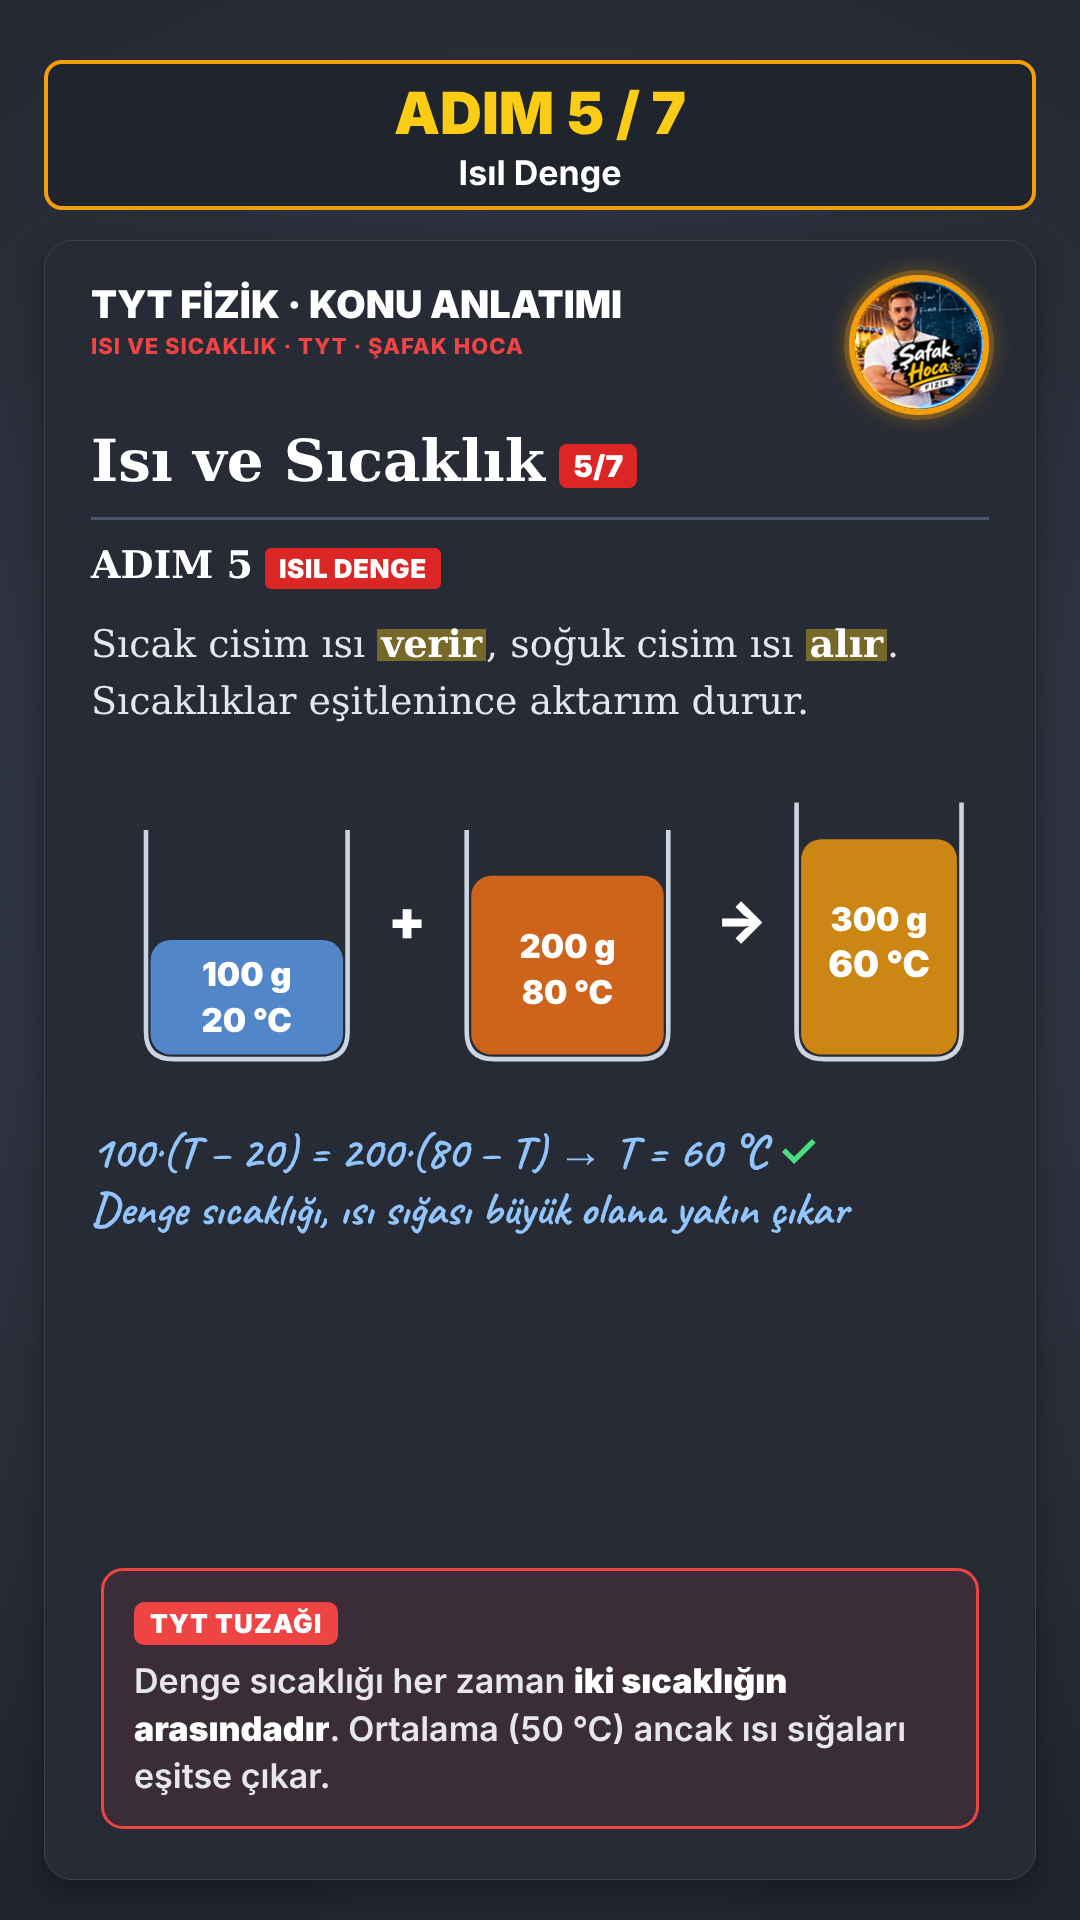
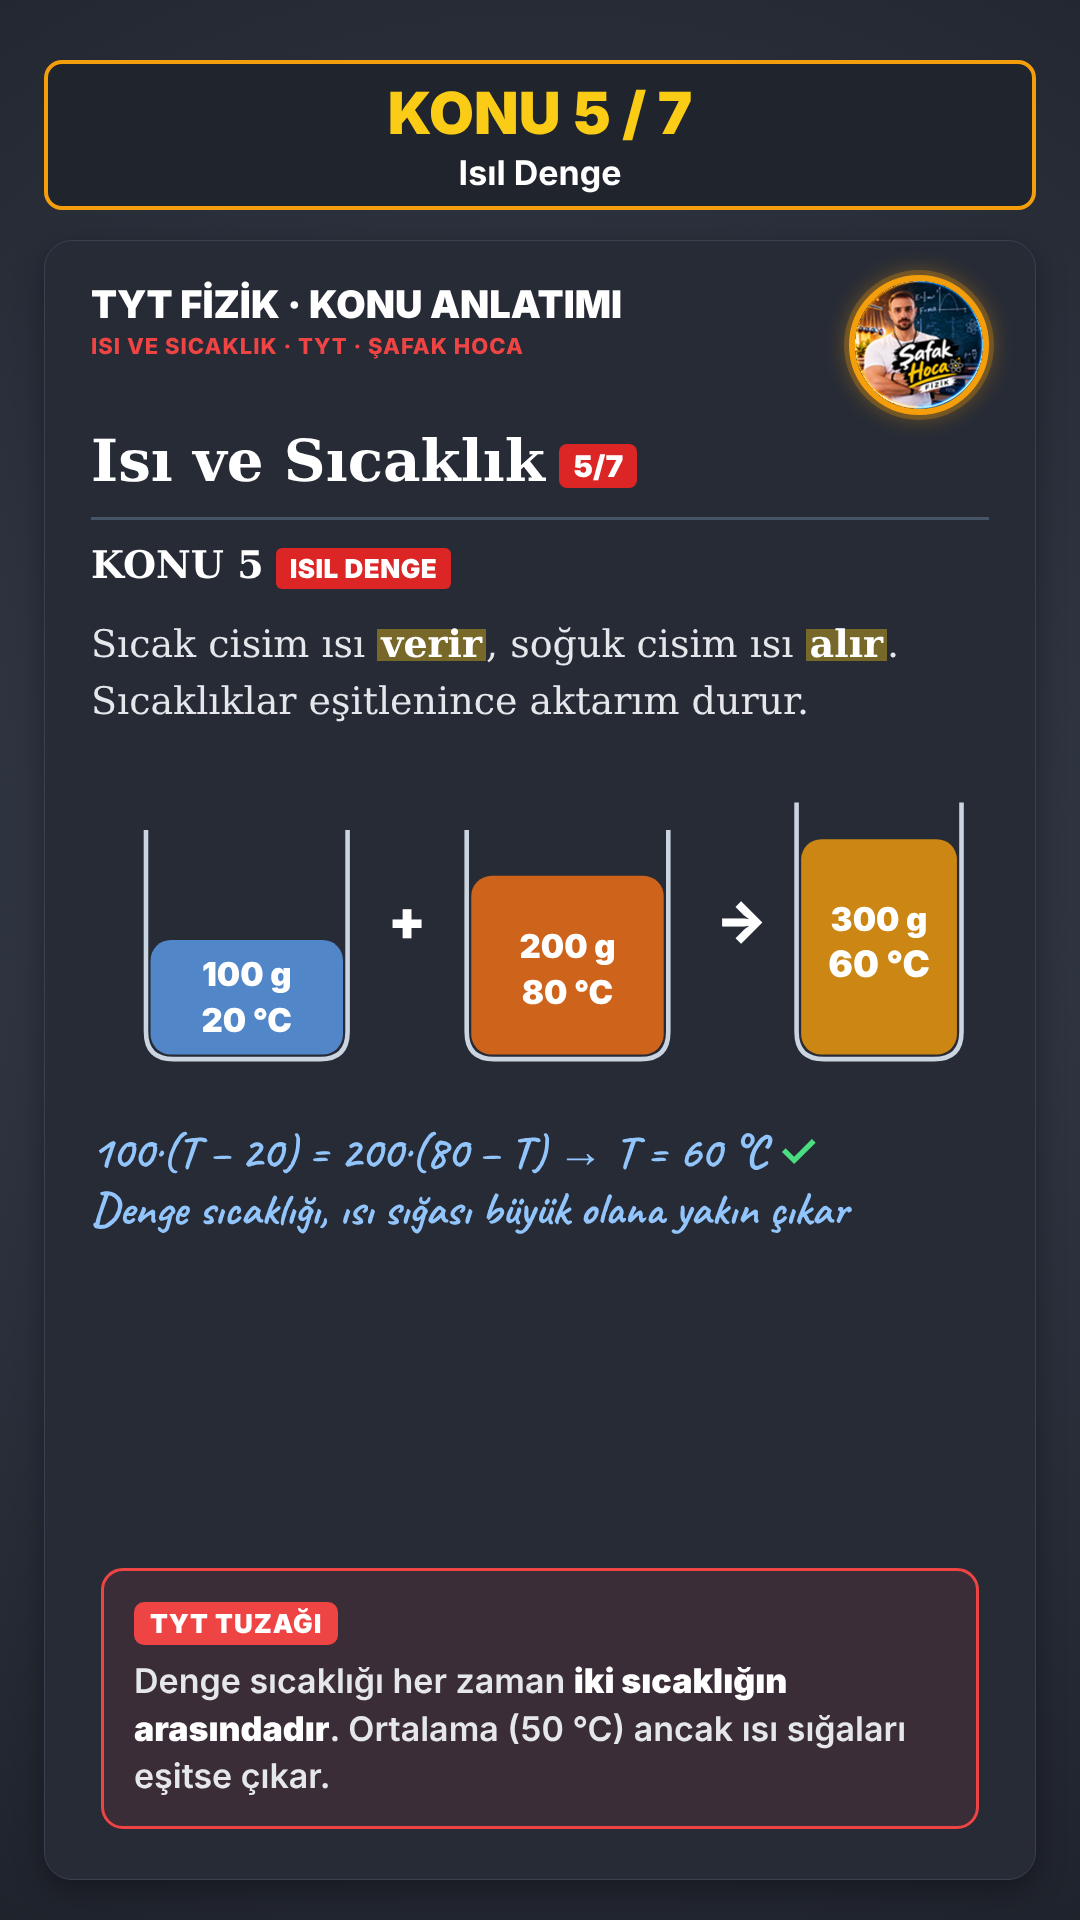
TYT Isı ve Sıcaklık: konu konu anlatım — 7 konu (genleşme eklendi) + TYT sorusu
Claude-Session: https://claude.ai/code/session_01Xc7NeVxuRXWQCx2wXCgMJt

Changed region(s): [[0.3667, 0.0312, 0.6417, 0.0938], [0.0917, 0.2812, 0.4278, 0.3125]]

diff --git a/tyt/konular/isi_sicaklik.html b/tyt/konular/isi_sicaklik.html
@@ -159,21 +159,21 @@
     <div class="logo-foto"></div>
     <div class="ka2">KONU ANLATIMI</div>
     <div class="konu2">Isı ve Sıcaklık</div>
-    <div class="ders2">Isı ≠ sıcaklık · Öz ısı · Hal değişimi · Isıl denge · Isı aktarımı</div>
+    <div class="ders2">Isı ve sıcaklık · Öz ısı · Hal değişimi · Isıl denge · Isı aktarımı · Genleşme</div>
     <div class="kod2">TYT · 2026-2027</div>
   </div>
   <div class="kp2-imza">Şafak Hoca · Fizik</div>
 </section>
 
-<!-- ================= 3 · ADIM 1: ISI ≠ SICAKLIK (0:13–0:48) ================= -->
+<!-- ================= 3 · KONU 1: ISI, SICAKLIK, İÇ ENERJİ (0:13–0:48) ================= -->
 <section class="sahne" id="a1">
-  <div class="ust-kutu"><div class="u1">ADIM 1 / 7</div><div class="u2">Isı ≠ Sıcaklık</div></div>
+  <div class="ust-kutu"><div class="u1">KONU 1 / 7</div><div class="u2">Isı, Sıcaklık ve İç Enerji</div></div>
   <div class="pg">
     <div class="pg-bas"><div class="pb1">TYT FİZİK · KONU ANLATIMI</div><div class="pb2">ISI VE SICAKLIK · TYT · ŞAFAK HOCA</div><div class="logo-foto"></div></div>
     <div class="pg-baslik">Isı ve Sıcaklık<span class="rozet">1/7</span></div>
     <div class="pg-cizgi"></div>
-    <div class="pg-adim">ADIM 1<span class="etk">ISI ≠ SICAKLIK</span></div>
-    <p class="tanim"><span class="f">Sıcaklık</span>, taneciklerin <span class="v">ortalama</span> hareket enerjisinin göstergesidir. <span class="f">Isı</span>, sıcaklık farkı yüzünden <span class="v">aktarılan</span> enerjidir.</p>
+    <div class="pg-adim">KONU 1<span class="etk">ISI, SICAKLIK VE İÇ ENERJİ</span></div>
+    <p class="tanim"><span class="f">Sıcaklık</span>, taneciklerin <span class="v">ortalama</span> hareket enerjisinin göstergesidir. <span class="f">İç enerji</span>, taneciklerin <span class="v">toplam</span> enerjisidir. <span class="f">Isı</span>, sıcaklık farkı yüzünden <span class="v">aktarılan</span> enerjidir.</p>
     <svg viewBox="0 0 980 300" width="100%" height="300">
       <g font-weight="800" text-anchor="middle">
         <rect x="20" y="20" width="440" height="230" rx="22" fill="#1f2430" stroke="#4b5563" stroke-width="3"/>
@@ -190,18 +190,18 @@
     </svg>
     <p class="not" style="margin-top:20px">Petek 70 °C, oda 22 °C → ısı petekten odaya akar <span class="ok">✓</span></p>
     <p class="not">Isı hep sıcaktan soğuğa akar; sıcaklıklar eşitlenince durur</p>
-    <div class="tuzak"><b class="b">TYT TUZAĞI</b><br>Bir kova suyun ısısı, bir bardak suyun ısısından fazladır demek <strong>yanlış</strong>. Cisimler ısı içermez, ısı yalnızca <strong>aktarılır</strong>.</div>
+    <div class="tuzak"><b class="b">TYT TUZAĞI</b><br>Aynı sıcaklıktaki bir kova su, bir bardak sudan daha fazla <strong>iç enerjiye</strong> sahiptir ama "daha fazla ısısı var" demek <strong>yanlış</strong>: ısı yalnızca aktarılır.</div>
   </div>
 </section>
 
-<!-- ================= 4 · ADIM 2: TERMOMETRELER (0:48–1:23) ================= -->
+<!-- ================= 4 · KONU 2: TERMOMETRELER (0:48–1:22) ================= -->
 <section class="sahne" id="a2">
-  <div class="ust-kutu"><div class="u1">ADIM 2 / 7</div><div class="u2">Sıcaklık Ölçekleri</div></div>
+  <div class="ust-kutu"><div class="u1">KONU 2 / 7</div><div class="u2">Termometreler ve Ölçekler</div></div>
   <div class="pg">
     <div class="pg-bas"><div class="pb1">TYT FİZİK · KONU ANLATIMI</div><div class="pb2">ISI VE SICAKLIK · TYT · ŞAFAK HOCA</div><div class="logo-foto"></div></div>
     <div class="pg-baslik">Isı ve Sıcaklık<span class="rozet">2/7</span></div>
     <div class="pg-cizgi"></div>
-    <div class="pg-adim">ADIM 2<span class="etk">SICAKLIK ÖLÇEKLERİ</span></div>
+    <div class="pg-adim">KONU 2<span class="etk">TERMOMETRELER VE ÖLÇEKLER</span></div>
     <svg viewBox="0 0 980 540" width="100%" height="540">
       <g font-weight="900" text-anchor="middle">
         <defs><g id="trm">
@@ -228,14 +228,14 @@
   </div>
 </section>
 
-<!-- ================= 5 · ADIM 3: ÖZ ISI (1:23–2:08) ================= -->
+<!-- ================= 5 · KONU 3: ÖZ ISI (1:22–1:57) ================= -->
 <section class="sahne" id="a3">
-  <div class="ust-kutu"><div class="u1">ADIM 3 / 7</div><div class="u2">Öz Isı ve Isı Sığası</div></div>
+  <div class="ust-kutu"><div class="u1">KONU 3 / 7</div><div class="u2">Öz Isı ve Isı Sığası</div></div>
   <div class="pg">
     <div class="pg-bas"><div class="pb1">TYT FİZİK · KONU ANLATIMI</div><div class="pb2">ISI VE SICAKLIK · TYT · ŞAFAK HOCA</div><div class="logo-foto"></div></div>
     <div class="pg-baslik">Isı ve Sıcaklık<span class="rozet">3/7</span></div>
     <div class="pg-cizgi"></div>
-    <div class="pg-adim">ADIM 3<span class="etk">ÖZ ISI VE ISI SIĞASI</span></div>
+    <div class="pg-adim">KONU 3<span class="etk">ÖZ ISI VE ISI SIĞASI</span></div>
     <div class="formul">Q = m · c · ΔT<small>c: öz ısı · m·c: ısı sığası</small></div>
     <p class="tanim"><span class="f">Öz ısı</span>, 1 gram maddenin sıcaklığını 1 °C artırmak için gereken ısıdır. <span class="v">Ayırt edicidir</span>, kütleye bağlı değildir.</p>
     <svg viewBox="0 0 980 300" width="100%" height="300">
@@ -255,14 +255,14 @@
   </div>
 </section>
 
-<!-- ================= 6 · ADIM 4: HAL DEĞİŞİMİ (2:08–2:48) ================= -->
+<!-- ================= 6 · KONU 4: HAL DEĞİŞİMİ (1:57–2:31) ================= -->
 <section class="sahne" id="a4">
-  <div class="ust-kutu"><div class="u1">ADIM 4 / 7</div><div class="u2">Hal Değişimi</div></div>
+  <div class="ust-kutu"><div class="u1">KONU 4 / 7</div><div class="u2">Hal Değişimi</div></div>
   <div class="pg">
     <div class="pg-bas"><div class="pb1">TYT FİZİK · KONU ANLATIMI</div><div class="pb2">ISI VE SICAKLIK · TYT · ŞAFAK HOCA</div><div class="logo-foto"></div></div>
     <div class="pg-baslik">Isı ve Sıcaklık<span class="rozet">4/7</span></div>
     <div class="pg-cizgi"></div>
-    <div class="pg-adim">ADIM 4<span class="etk">HAL DEĞİŞİMİ</span></div>
+    <div class="pg-adim">KONU 4<span class="etk">HAL DEĞİŞİMİ</span></div>
     <svg viewBox="0 0 980 560" width="100%" height="560">
       <defs><marker id="okax" viewBox="0 0 10 10" refX="8" refY="5" markerWidth="6" markerHeight="6" orient="auto"><path d="M0 0L10 5L0 10z" fill="#cbd5e1"/></marker></defs>
       <line x1="90" y1="500" x2="950" y2="500" class="ax" marker-end="url(#okax)"/>
@@ -288,14 +288,14 @@
   </div>
 </section>
 
-<!-- ================= 7 · ADIM 5: ISIL DENGE (2:48–3:28) ================= -->
+<!-- ================= 7 · KONU 5: ISIL DENGE (2:31–3:06) ================= -->
 <section class="sahne" id="a5">
-  <div class="ust-kutu"><div class="u1">ADIM 5 / 7</div><div class="u2">Isıl Denge</div></div>
+  <div class="ust-kutu"><div class="u1">KONU 5 / 7</div><div class="u2">Isıl Denge</div></div>
   <div class="pg">
     <div class="pg-bas"><div class="pb1">TYT FİZİK · KONU ANLATIMI</div><div class="pb2">ISI VE SICAKLIK · TYT · ŞAFAK HOCA</div><div class="logo-foto"></div></div>
     <div class="pg-baslik">Isı ve Sıcaklık<span class="rozet">5/7</span></div>
     <div class="pg-cizgi"></div>
-    <div class="pg-adim">ADIM 5<span class="etk">ISIL DENGE</span></div>
+    <div class="pg-adim">KONU 5<span class="etk">ISIL DENGE</span></div>
     <p class="tanim">Sıcak cisim ısı <span class="f">verir</span>, soğuk cisim ısı <span class="f">alır</span>. Sıcaklıklar eşitlenince aktarım durur.</p>
     <svg viewBox="0 0 980 360" width="100%" height="360">
       <g font-weight="900" text-anchor="middle">
@@ -318,14 +318,14 @@
   </div>
 </section>
 
-<!-- ================= 8 · ADIM 6: ISI AKTARIM YOLLARI (3:28–4:08) ================= -->
+<!-- ================= 8 · KONU 6: ISI AKTARIM YOLLARI (3:06–3:40) ================= -->
 <section class="sahne" id="a6">
-  <div class="ust-kutu"><div class="u1">ADIM 6 / 7</div><div class="u2">Isı Aktarım Yolları</div></div>
+  <div class="ust-kutu"><div class="u1">KONU 6 / 7</div><div class="u2">Isı Aktarım Yolları</div></div>
   <div class="pg">
     <div class="pg-bas"><div class="pb1">TYT FİZİK · KONU ANLATIMI</div><div class="pb2">ISI VE SICAKLIK · TYT · ŞAFAK HOCA</div><div class="logo-foto"></div></div>
     <div class="pg-baslik">Isı ve Sıcaklık<span class="rozet">6/7</span></div>
     <div class="pg-cizgi"></div>
-    <div class="pg-adim">ADIM 6<span class="etk">ISI AKTARIM YOLLARI</span></div>
+    <div class="pg-adim">KONU 6<span class="etk">ISI AKTARIM YOLLARI</span></div>
     <svg viewBox="0 0 980 560" width="100%" height="440">
       <defs>
         <marker id="o1" viewBox="0 0 10 10" refX="7" refY="5" markerWidth="4" markerHeight="4" orient="auto"><path d="M0 0L10 5L0 10z" fill="#fb923c"/></marker>
@@ -364,14 +364,39 @@
   </div>
 </section>
 
-<!-- ================= 9 · ADIM 7: TYT SORUSU (4:08–4:50) ================= -->
+<!-- ================= 9 · KONU 7: GENLEŞME (3:40–4:15) ================= -->
 <section class="sahne" id="a7">
-  <div class="ust-kutu"><div class="u1">ADIM 7 / 7</div><div class="u2">TYT Tarzı Soru</div></div>
+  <div class="ust-kutu"><div class="u1">KONU 7 / 7</div><div class="u2">Genleşme</div></div>
   <div class="pg">
     <div class="pg-bas"><div class="pb1">TYT FİZİK · KONU ANLATIMI</div><div class="pb2">ISI VE SICAKLIK · TYT · ŞAFAK HOCA</div><div class="logo-foto"></div></div>
     <div class="pg-baslik">Isı ve Sıcaklık<span class="rozet">7/7</span></div>
     <div class="pg-cizgi"></div>
-    <div class="pg-adim">ADIM 7<span class="etk">TYT TARZI SORU</span></div>
+    <div class="pg-adim">KONU 7<span class="etk">GENLEŞME</span></div>
+    <p class="tanim">Isınan maddenin tanecikleri daha çok titreşir, aralarındaki uzaklık artar: madde <span class="f">genleşir</span>. Soğuyunca <span class="v">büzülür</span>.</p>
+    <div class="formul">ΔL = L₀ · λ · ΔT<small>λ: boyca uzama katsayısı (ayırt edici)</small></div>
+    <svg viewBox="0 0 980 230" width="100%" height="230">
+      <g font-weight="900">
+        <rect x="40" y="30" width="640" height="56" rx="10" fill="#94a3b8"/>
+        <text x="360" y="70" fill="#1f2937" font-size="32" text-anchor="middle">L₀ (soğuk)</text>
+        <rect x="40" y="140" width="760" height="56" rx="10" fill="#fb923c"/>
+        <text x="360" y="180" fill="#431407" font-size="32" text-anchor="middle">ısıtılmış</text>
+        <line x1="680" y1="20" x2="680" y2="215" stroke="#fff" stroke-width="3" stroke-dasharray="8 6"/>
+        <text x="740" y="128" fill="#fff" font-size="36" text-anchor="middle">ΔL</text>
+      </g>
+    </svg>
+    <p class="not">Kalorifer boruları ısınınca uzar → tesisatta esnek dirsekler var <span class="ok">✓</span></p>
+    <div class="tuzak"><b class="b">TYT TUZAĞI</b><br>Su <strong>0 °C → 4 °C</strong> arasında ısıtılınca hacmi <strong>küçülür</strong>; özkütlesi 4 °C'de en büyüktür. Delikli levha ısınınca <strong>delik de büyür</strong>.</div>
+  </div>
+</section>
+
+<!-- ================= 10 · TYT SORUSU (4:15–4:50) ================= -->
+<section class="sahne" id="soru">
+  <div class="ust-kutu"><div class="u1">TYT SORUSU</div><div class="u2">Isı ve Sıcaklık</div></div>
+  <div class="pg">
+    <div class="pg-bas"><div class="pb1">TYT FİZİK · KONU ANLATIMI</div><div class="pb2">ISI VE SICAKLIK · TYT · ŞAFAK HOCA</div><div class="logo-foto"></div></div>
+    <div class="pg-baslik">Isı ve Sıcaklık</div>
+    <div class="pg-cizgi"></div>
+    <div class="pg-adim">SORU<span class="etk">TYT TARZI SORU</span></div>
     <p class="tanim" style="font-size:36px">Kütleleri <b style="color:#fff">2m</b> ve <b style="color:#fff">m</b> olan X ve Y sıvıları özdeş ısıtıcılarla eşit süre ısıtılıyor. Sıcaklıkları <b style="color:#fff">10 °C</b> ve <b style="color:#fff">40 °C</b> artıyor.<br><span class="f">Öz ısılar oranı c<sub>X</sub> / c<sub>Y</sub> kaçtır?</span></p>
     <svg viewBox="0 0 980 230" width="100%" height="230">
       <g font-family="Caveat" font-weight="700" fill="var(--kalem)" font-size="50">
@@ -390,7 +415,7 @@
   </div>
 </section>
 
-<!-- ================= 10 · KAPANIŞ (4:50–5:00) ================= -->
+<!-- ================= 11 · KAPANIŞ (4:50–5:00) ================= -->
 <section class="sahne" id="kapanis">
   <div class="kp" style="padding-top:330px">
     <div class="pill">TYT FİZİK</div>
@@ -398,7 +423,7 @@
     <div class="alt2" style="font-size:44px;margin-top:40px">Isı ve Sıcaklık ✓</div>
     <ul class="liste" style="text-align:left;margin-top:70px;font-size:40px">
       <li>Isı aktarılır, sıcaklık ölçülür</li><li>Q = m·c·ΔT · Q = m·L</li>
-      <li>Verilen ısı = alınan ısı</li><li>İletim · konveksiyon · ışıma</li>
+      <li>Verilen ısı = alınan ısı</li><li>İletim · konveksiyon · ışıma</li><li>Genleşme: ΔL = L₀·λ·ΔT</li>
     </ul>
     <div class="alt2" style="margin-top:60px">Sıradaki TYT konusu için takipte kal</div>
   </div>
